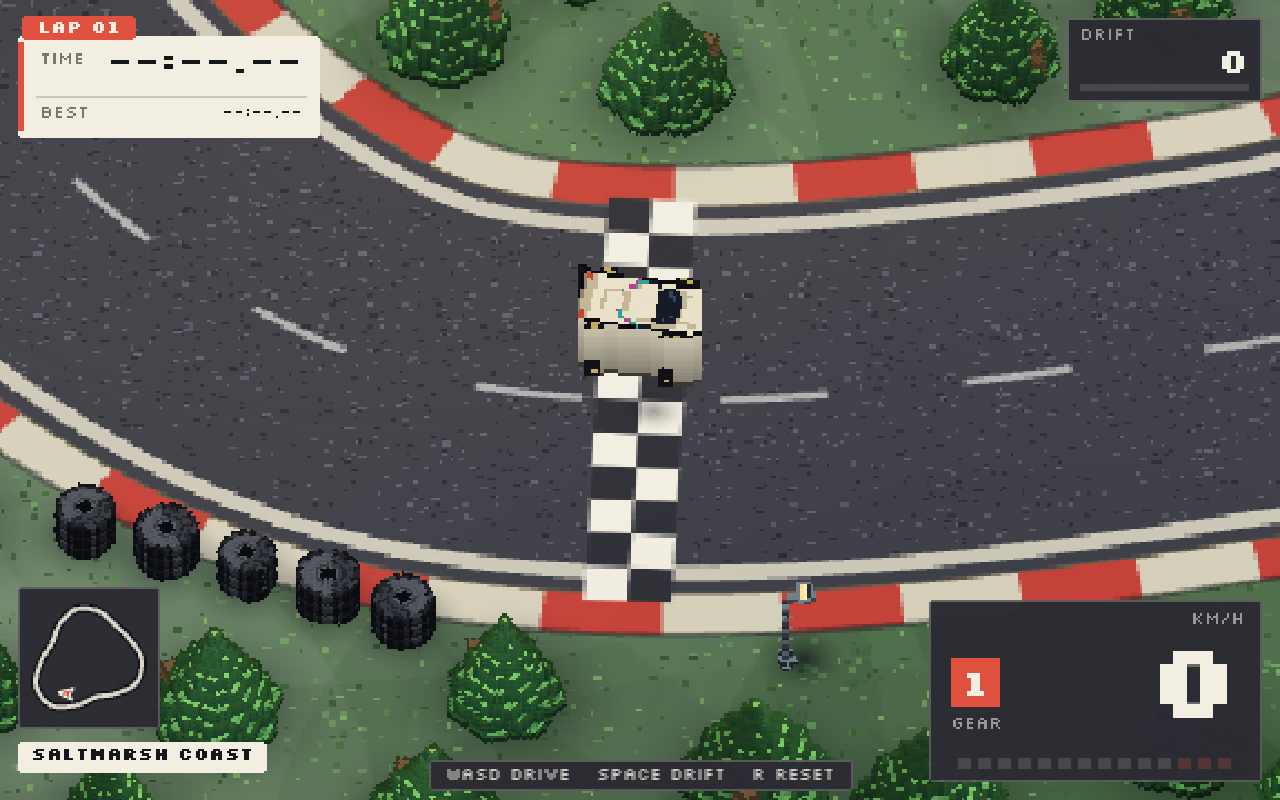
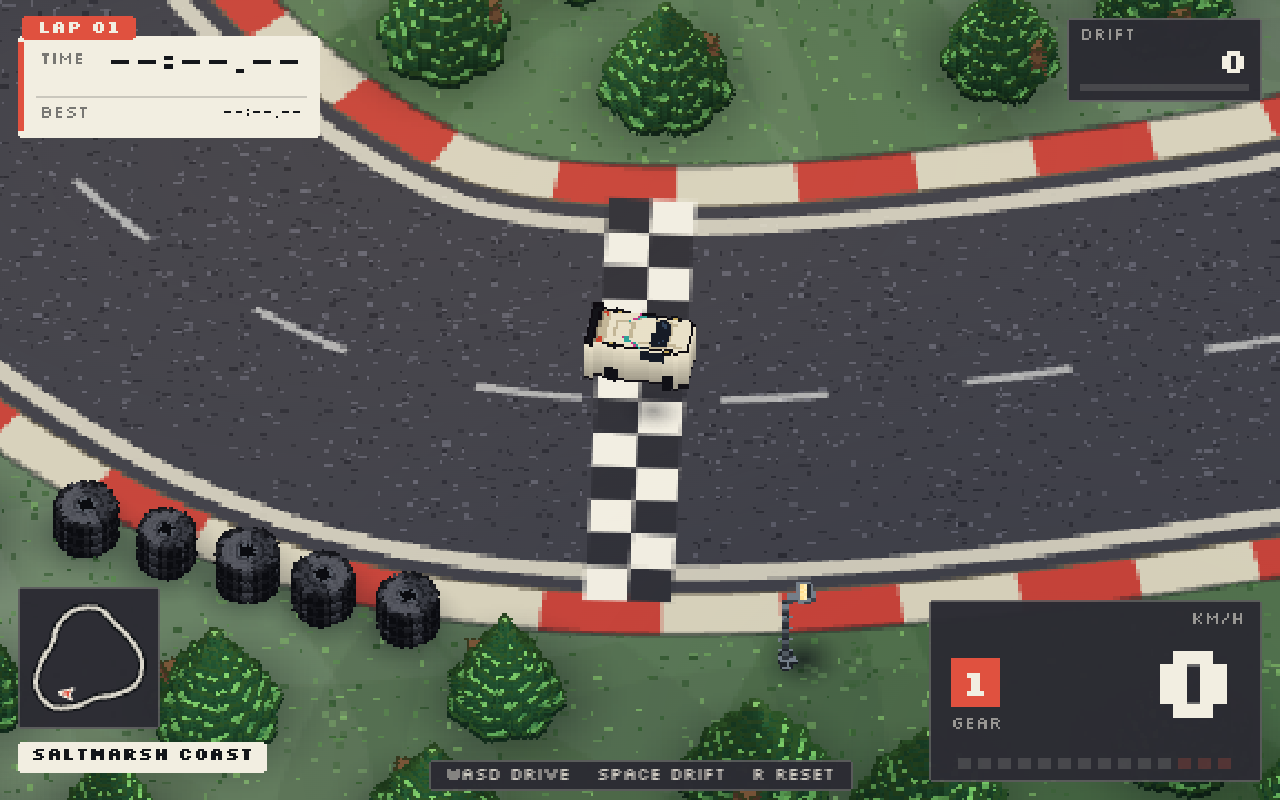
Car stack rebuilt by subagent: guided ratios, tyres owned by stacker, measured frame size

diff --git a/src/car.ts b/src/car.ts
@@ -38,7 +38,7 @@ export class Car {
   async setSkin(file: string) {
     const sheet = await loadSheet(`/sprites/${file}.png`);
     if (this.model) this.group.remove(this.model);
-    this.model = new DirectionalCar(sheet, 32, 2.2, 37, 52);
+    this.model = new DirectionalCar(sheet, 32, 2.2, 52, 57);
     this.group.add(this.model);
   }
 

diff --git a/tools/guide_stack.py b/tools/guide_stack.py
@@ -1,21 +1,94 @@
-"""The guide's recipe, exactly, for one design.
+"""Stack the hero car the way the Spritecook guide's car is built.
 
-Sheet = one ROW, ground slice first, 15 slices of 24x43. Every slice is the
-same silhouette; only the top slice carries the art. Each slice is drawn 1px
-above the previous one, so the visible depth is (slices-1) px of side wall.
-Sides darken toward the ground (the guide's `shade`), and the tyres sit on the
-bottom slices, proud of the body, so they read from above.
+Sheet = one ROW, ground slice first, 15 slices of 24x43. The drawing
+(tmp/opus-top-1x.png, 24x32) is stretched to 24x43 and rides on top.
+
+  * slices 1..13 are the side wall: one flat fill per slice, cream #e8e0c8
+    darkened toward the ground by SHADE, reaching full cream where the wall
+    meets the drawing. No per-slice outline - stacked outlines read as
+    vertical stripes.
+  * slice 0 is a near-black ground shadow of the whole footprint.
+  * four black tyre ellipses sit at the corners on slices 0..4, centred on
+    the side wall so they protrude exactly 1px past the body, with a gold
+    hub. The top slice carries the same wheels, so they read from above
+    (the protrusion is never covered) and from the side (the band).
+  * slices 10..12 carry a dark window band, 2px in from each side edge,
+    only within the cabin (the rows where the drawing has windshield glass).
+  * slice 14 is the drawing itself, outline included.
 """
 import argparse
 import numpy as np
 from PIL import Image
 
 W, L, SLICES = 24, 43, 15
-BODY = np.array([232, 224, 200], np.float32)
-DARK = np.array([18, 16, 22], np.float32)
-TYRE = np.array([16, 16, 22], np.float32)
-HUB = np.array([198, 170, 92], np.float32)
-SHADE = 0.32
+BODY = np.array([232, 224, 200], np.float32)   # cream #e8e0c8
+SHADOW = np.array([18, 16, 22], np.uint8)      # near-black ground shadow
+TYRE = np.array([16, 16, 22], np.uint8)       # black tyre
+HUB = np.array([198, 170, 92], np.uint8)       # gold hub
+GLASS = np.array([20, 26, 38], np.uint8)       # matches the windshield glass
+SHADE = 0.30                                   # wall darkening toward the ground
+TYRE_Z = 5                                     # tyres live on slices 0..4
+HUB_Z = 2                                      # hub cap on the side wall
+WIN_Z0, WIN_Z1 = 10, 12                        # side-window band
+AXLES = (0.176, 0.752)                         # axle rows as a fraction of length
+TYRE_RX, TYRE_RY = 1.6, 2.8                    # 3px wide, ~6px long, 1px proud
+HUB_RX, HUB_RY = 0.8, 1.0                      # 1x2 gold dot per wheel
+
+
+def stack(art, shade):
+    mask = art[..., 3] > 8
+
+    ys, xs = np.nonzero(mask)
+    y0, y1 = ys.min(), ys.max()
+    length = y1 - y0
+
+    def ellipse(cy, cx, ry, rx):
+        yy, xx = np.mgrid[0:L, 0:W]
+        return (((yy - cy) / ry) ** 2 + ((xx - cx) / rx) ** 2) <= 1.0
+
+    # wheels: one axle line per end of the car, centred on the side wall
+    # (the outline column), so each tyre sticks out exactly 1px past the body
+    tyres = np.zeros((L, W), bool)
+    hubs = np.zeros((L, W), bool)
+    for frac in AXLES:
+        cy = y0 + length * frac
+        band = mask[int(cy - TYRE_RY):int(cy + TYRE_RY) + 1]
+        bx = np.nonzero(band.any(axis=0))[0]
+        for cx in (bx.min(), bx.max()):
+            tyres |= ellipse(cy, cx, TYRE_RY, TYRE_RX)
+            hubs |= ellipse(cy, cx, HUB_RY, HUB_RX)
+
+    # the cabin is wherever the drawing's windshield glass sits
+    glass_rows = np.nonzero(((art[..., :3] == GLASS).all(-1) & mask).any(axis=1))[0]
+    windows = np.zeros((L, W), bool)
+    for y in range(glass_rows.min(), glass_rows.max() + 1):
+        row = np.nonzero(mask[y])[0]
+        windows[y, row[0]:row[0] + 2] = True
+        windows[y, row[-2]:row[-1] + 1] = True
+
+    row = np.zeros((L, W * SLICES, 4), np.uint8)
+    for z in range(SLICES):
+        sl = np.zeros((L, W, 4), np.uint8)
+        if z == SLICES - 1:
+            sl[mask] = art[mask]                       # the drawing, outline included
+            sl[tyres] = np.array([*TYRE, 255], np.uint8)
+            sl[hubs] = np.array([*HUB, 255], np.uint8)
+        elif z == 0:
+            sl[mask | tyres] = np.array([*SHADOW, 255], np.uint8)
+            sl[tyres] = np.array([*TYRE, 255], np.uint8)
+        else:
+            # flat fill, one shade step per slice, darkest just above the
+            # shadow (z=1 -> 1-shade) and full cream at the top (z=13)
+            k = 1.0 - shade * (SLICES - 2 - z) / (SLICES - 3)
+            sl[mask] = np.array([*(BODY * k), 255], np.uint8)
+            if z < TYRE_Z:
+                sl[tyres] = np.array([*TYRE, 255], np.uint8)
+                if z == HUB_Z:
+                    sl[hubs] = np.array([*HUB, 255], np.uint8)
+            if WIN_Z0 <= z <= WIN_Z1:
+                sl[windows] = np.array([*GLASS, 255], np.uint8)
+        row[:, z * W:(z + 1) * W] = sl
+    return row
 
 
 def main():
@@ -26,49 +99,8 @@ def main():
     a = p.parse_args()
 
     src = Image.open(a.top).convert("RGBA")
-    top = np.array(src.resize((W, L), Image.NEAREST))
-    mask = top[..., 3] > 8
-
-    ys, xs = np.nonzero(mask)
-    y0, y1, x0, x1 = ys.min(), ys.max(), xs.min(), xs.max()
-    length = y1 - y0
-
-    def wheel(cy, cx, ry=2.6, rx=1.9):
-        yy, xx = np.mgrid[0:L, 0:W]
-        return (((yy - cy) / ry) ** 2 + ((xx - cx) / rx) ** 2) <= 1.0
-
-    wheels = np.zeros((L, W), bool)
-    hubs = np.zeros((L, W), bool)
-    for ay in (y0 + length * 0.24, y0 + length * 0.76):
-        for ax in (x0 - 0.4, x1 + 0.4):
-            wheels |= wheel(ay, ax)
-            hubs |= wheel(ay, ax, 0.9, 0.7)
-
-    # the tyres are part of the silhouette so they survive every slice
-    silhouette = mask | wheels
-
-    row = np.zeros((L, W * SLICES, 4), np.uint8)
-    for z in range(SLICES):
-        sl = np.zeros((L, W, 4), np.uint8)
-        if z == SLICES - 1:
-            sl[mask] = top[mask]
-            sl[wheels & ~mask] = np.array([*TYRE, 255], np.uint8)
-            sl[hubs] = np.array([*HUB, 255], np.uint8)
-        else:
-            # guide's shade: darker as it approaches the ground
-            k = 1.0 - a.shade * (1.0 - z / (SLICES - 1)) - a.shade * 0.4
-            body = BODY * max(0.25, k)
-            sl[mask, :3] = body
-            sl[mask, 3] = 255
-            if z == 0:
-                sl[mask, :3] = body * 0.45
-            if z <= 4:
-                sl[wheels] = np.array([*TYRE, 255], np.uint8)
-                if z == 1:
-                    sl[hubs] = np.array([*HUB, 255], np.uint8)
-        row[:, z * W:(z + 1) * W] = sl
-
-    Image.fromarray(row).save(a.out)
+    art = np.array(src.resize((W, L), Image.NEAREST))
+    Image.fromarray(stack(art, a.shade)).save(a.out)
     print(f"{SLICES} slices of {W}x{L} -> {a.out}")
 
 

diff --git a/tools/verify_stack.py b/tools/verify_stack.py
@@ -1,0 +1,113 @@
+"""Verify the hero-car slice sheet by measuring it, not by looking.
+
+  python tools/verify_stack.py tmp/opus-top-1x.png tmp/opus-slices.png
+
+Checks, per the stack spec:
+  (a) 15 slices, each 24x43, ground slice first;
+  (b) opaque pixel count per slice decreases then stabilises
+      (the tyre protrusion lives on the bottom slices only);
+  (c) tyre pixels exist on the bottom slices outside the body silhouette;
+  (d) no slice is empty.
+Plus: flat single-colour wall slices with a monotone cream ramp that tops out
+at exactly #e8e0c8, a near-black ground slice, the window band only on
+slices 10..12 inside the cabin rows, and gold hubs on the wall and the top.
+"""
+import sys
+import numpy as np
+from PIL import Image
+
+W, L, SLICES = 24, 43, 15
+BODY = np.array([232, 224, 200])
+GLASS = np.array([20, 26, 38])
+TYRE = np.array([16, 16, 22])
+HUB = np.array([198, 170, 92])
+
+failures = []
+
+
+def check(ok, msg):
+    print(f"  {'ok  ' if ok else 'FAIL'} {msg}")
+    if not ok:
+        failures.append(msg)
+
+
+def main():
+    top, sheet = sys.argv[1], sys.argv[2]
+    art = np.array(Image.open(top).convert("RGBA").resize((W, L), Image.NEAREST))
+    mask = art[..., 3] > 8
+    a = np.array(Image.open(sheet).convert("RGBA"))
+
+    print(f"(a) sheet geometry")
+    check(a.shape[:2] == (L, W * SLICES), f"sheet is {W * SLICES}x{L} (15 x 24x43)")
+
+    sl = [a[:, z * W:(z + 1) * W] for z in range(SLICES)]
+    counts = [int((s[..., 3] > 8).sum()) for s in sl]
+
+    print(f"(b) opaque count per slice: {counts}")
+    check(all(c == counts[0] for c in counts[:5]), "slices 0..4 share a footprint (body + tyres)")
+    check(all(c == counts[5] for c in counts[5:14]), "slices 5..13 share the body silhouette")
+    check(counts[5] < counts[0], "count decreases once the tyre protrusion ends (then stabilises)")
+    check(counts[14] >= counts[0], "top slice carries the drawing plus the tyre protrusion")
+
+    print(f"(c) tyres outside the body silhouette, slices 0..4")
+    for z in range(5):
+        s = sl[z]
+        op = s[..., 3] > 8
+        tyre_out = op & ~mask & (np.abs(s[..., :3].astype(int) - TYRE).sum(-1) < 12)
+        check(int(tyre_out.sum()) >= 12, f"slice {z}: {int(tyre_out.sum())} tyre px outside the body")
+
+    print(f"(d) no empty slice")
+    check(all(c > 0 for c in counts), "every slice has opaque pixels")
+
+    print(f"(e) wall: flat fills, monotone cream ramp")
+    ramp = []
+    for z in range(5, 14):
+        s = sl[z]
+        op = s[..., 3] > 8
+        glass = np.abs(s[..., :3].astype(int) - GLASS).sum(-1) < 12
+        u = np.unique(s[op & ~glass][:, :3].reshape(-1, 3), axis=0)
+        check(len(u) == 1, f"slice {z}: flat fill {tuple(int(v) for v in u[0])}" if len(u) == 1
+              else f"slice {z}: {len(u)} wall colours (outline stripes?)")
+        ramp.append(u[0] if len(u) == 1 else None)
+    ok_ramp = all(ramp[i] is not None and ramp[i - 1] is not None and
+                  ramp[i][0] >= ramp[i - 1][0] for i in range(1, len(ramp)))
+    check(ok_ramp, "ramp lightens monotonically toward slice 13")
+    check(ramp[-1] is not None and tuple(ramp[-1]) == tuple(BODY),
+          f"slice 13 is full cream {tuple(int(v) for v in BODY)} (seamless with the drawing)")
+
+    print(f"(f) bottom slice is a near-black ground shadow")
+    s = sl[0]
+    op = s[..., 3] > 8
+    lum = s[..., :3].astype(int).sum(-1)
+    check(bool((lum[op] < 120).all()), f"slice 0 max channel-sum {int(lum[op].max())} (near-black)")
+
+    print(f"(g) side windows: dark band on slices 10..12 only, inside the cabin")
+    glass_rows = np.nonzero(((art[..., :3] == GLASS).all(-1) & mask).any(axis=1))[0]
+    wy0, wy1 = int(glass_rows.min()), int(glass_rows.max())
+    print(f"      cabin rows in the drawing: y {wy0}..{wy1}")
+    for z in range(1, 14):
+        s = sl[z]
+        g = (s[..., 3] > 8) & (np.abs(s[..., :3].astype(int) - GLASS).sum(-1) < 12)
+        n = int(g.sum())
+        if 10 <= z <= 12:
+            ys = np.nonzero(g.any(axis=1))[0]
+            inside = bool(len(ys)) and ys.min() >= wy0 and ys.max() <= wy1
+            check(n > 0 and inside, f"slice {z}: {n} glass px within cabin rows")
+        else:
+            check(n == 0, f"slice {z}: no window glass")
+
+    print(f"(h) gold hubs, wall + top")
+    for z, want in ((2, 8), (14, 8)):
+        s = sl[z]
+        h = (s[..., 3] > 8) & (np.abs(s[..., :3].astype(int) - HUB).sum(-1) < 12)
+        check(int(h.sum()) >= want, f"slice {z}: {int(h.sum())} gold hub px")
+    s = sl[14]
+    t = (s[..., 3] > 8) & ~mask & (np.abs(s[..., :3].astype(int) - TYRE).sum(-1) < 12)
+    check(int(t.sum()) >= 12, f"slice 14: {int(t.sum())} tyre px outside the body (visible from above)")
+
+    print(f"\n{'ALL CHECKS PASS' if not failures else f'{len(failures)} FAILURES'}")
+    return 1 if failures else 0
+
+
+if __name__ == "__main__":
+    sys.exit(main())

diff --git a/tools/bake_directions.py b/tools/bake_directions.py
@@ -8,8 +8,6 @@ depth fighting.
   python tools/bake_directions.py slices.png out.png --slices 17 --dirs 32
 """
 import argparse
-import math
-import numpy as np
 from PIL import Image
 
 
@@ -27,8 +25,16 @@ def main():
     h = sheet.height
     sl = [sheet.crop((i * w, 0, (i + 1) * w, h)) for i in range(a.slices)]
 
-    fw = int(math.ceil(w * 1.45)) + 2
-    fh = int(math.ceil(h * a.squash)) + a.slices + 4
+    # the frame must hold every rotated slice with room to spare: measure the
+    # widest and tallest rotation instead of guessing (a too-narrow frame
+    # shears the car at the diagonal headings)
+    max_w = max_h = 0
+    for d in range(a.dirs):
+        piece = sl[0].rotate(d * 360.0 / a.dirs, resample=Image.NEAREST, expand=True)
+        max_w = max(max_w, piece.width)
+        max_h = max(max_h, max(1, int(round(piece.height * a.squash))))
+    fw = max_w + 2                       # 1px of margin either side
+    fh = max_h + a.slices + 4            # 1px lift per slice + margins
     cx, cy = fw // 2, fh - 2
 
     out = Image.new("RGBA", (fw * a.dirs, fh), (0, 0, 0, 0))
